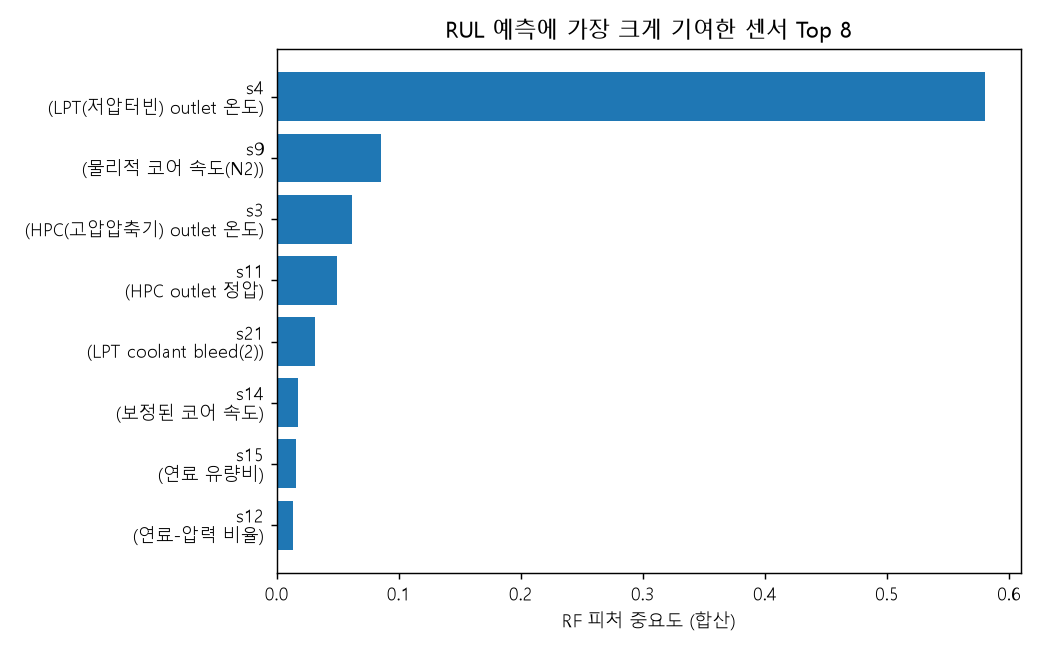
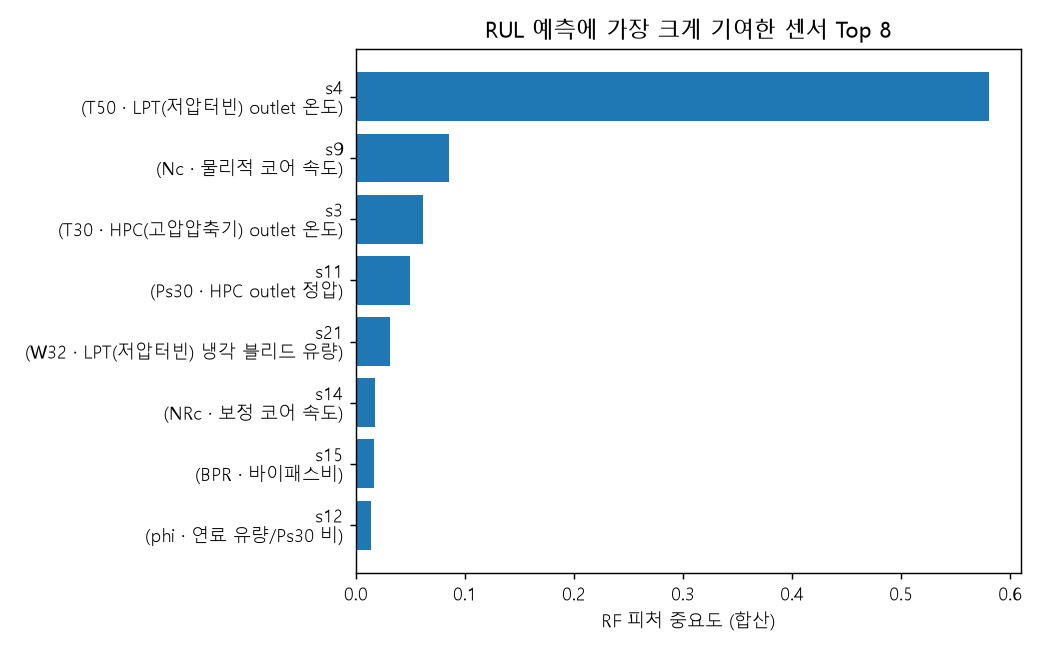
fix: C-MAPSS 센서 이름 대응표 s15~s21이 한 칸씩 밀려 있던 문제 수정
- 06_domain_interpretation.py SENSOR_MEANING을 원자료(Saxena et al. 2008, Table 2) 순서로 수정
  (예: s15 연료 유량비 → BPR·바이패스비, s21 LPT coolant bleed(2) → W32·LPT 냉각 블리드 유량)
- 원자료 기호(T50, Nc, Ps30 등)를 함께 표기
- 센서 중요도 그림·domain_interpretation.json·대시보드 mock.ts 라벨 재생성
- 모델·성능 수치는 센서 번호 기준이라 영향 없음

diff --git a/outputs/dashboard_data/mock.ts b/outputs/dashboard_data/mock.ts
@@ -14,7 +14,7 @@ export const statusLabel: Record<Status, string> = {
 }
 
 export const dataMeta = {
-  "generatedAt": "2026-09-29T11:33:25",
+  "generatedAt": "2026-09-29T11:36:46",
   "dataset": "C-MAPSS FD001",
   "testEngines": 100,
   "selectedEngines": [
@@ -2206,23 +2206,23 @@ export const classifierMetrics = {
 /** RF 피처 중요도 상위 5개 센서(그룹 합산) */
 export const featureImportance = [
   {
-    "label": "LPT outlet 온도 (s4)",
+    "label": "T50 · LPT outlet 온도 (s4)",
     "value": 0.58
   },
   {
-    "label": "물리적 코어 속도(N2) (s9)",
+    "label": "Nc · 물리적 코어 속도 (s9)",
     "value": 0.086
   },
   {
-    "label": "HPC outlet 온도 (s3)",
+    "label": "T30 · HPC outlet 온도 (s3)",
     "value": 0.061
   },
   {
-    "label": "HPC outlet 정압 (s11)",
+    "label": "Ps30 · HPC outlet 정압 (s11)",
     "value": 0.049
   },
   {
-    "label": "LPT coolant bleed(2) (s21)",
+    "label": "W32 · LPT 냉각 블리드 유량 (s21)",
     "value": 0.031
   }
 ]

diff --git a/scripts/06_domain_interpretation.py b/scripts/06_domain_interpretation.py
@@ -20,16 +20,24 @@ import matplotlib.pyplot as plt
 # 폴더 경로는 common.py에서 PC에 상관없이 자동으로 계산됩니다 (0번 섹션 참고).
 from common import DATA, OUT_METRICS, OUT_FIG
 
-# NASA C-MAPSS 데이터 설명서 기준 센서 이름 (물리적 의미) — 공개된 데이터 설명 문서에
-# 나온 표준 명칭입니다. 발표 때 "s4가 뭔데요?"라는 질문에 바로 답할 수 있게 정리.
+# C-MAPSS 센서 21개의 물리적 의미 (원자료 기호 → 우리말). 발표 때 "s4가 뭔데요?"라는
+# 질문에 바로 답할 수 있게 정리했습니다.
+# 출처: Saxena, A. et al., "Damage Propagation Modeling for Aircraft Engine Run-to-Failure
+#       Simulation", PHM 2008, Table 2 (C-MAPSS 출력 변수 목록). 데이터 파일의 센서 열 순서와
+#       이 표의 순서가 같습니다.
+# ※ 2026-09-29 수정: 처음 버전은 s15부터 한 칸씩 밀려 있었습니다(예: s15를 "연료 유량비"로
+#   적었지만 실제로는 바이패스비 BPR). 이 표를 쓰는 06번 그림·해석과 08번 대시보드 라벨이
+#   모두 이 값을 따라갑니다.
 SENSOR_MEANING = {
-    "s1": "Fan inlet 온도", "s2": "LPC(저압압축기) outlet 온도", "s3": "HPC(고압압축기) outlet 온도",
-    "s4": "LPT(저압터빈) outlet 온도", "s5": "Fan inlet 압력", "s6": "bypass-duct 압력",
-    "s7": "HPC outlet 압력", "s8": "물리적 팬 속도(N1)", "s9": "물리적 코어 속도(N2)",
-    "s10": "engine pressure ratio", "s11": "HPC outlet 정압", "s12": "연료-압력 비율",
-    "s13": "보정된 팬 속도", "s14": "보정된 코어 속도", "s15": "연료 유량비",
-    "s16": "bleed enthalpy", "s17": "demanded 팬 속도", "s18": "demanded 보정 팬 속도",
-    "s19": "HPT(고압터빈) coolant bleed", "s20": "LPT coolant bleed", "s21": "LPT coolant bleed(2)",
+    "s1": "T2 · Fan inlet 온도", "s2": "T24 · LPC(저압압축기) outlet 온도",
+    "s3": "T30 · HPC(고압압축기) outlet 온도", "s4": "T50 · LPT(저압터빈) outlet 온도",
+    "s5": "P2 · Fan inlet 압력", "s6": "P15 · bypass-duct 전압력", "s7": "P30 · HPC outlet 전압력",
+    "s8": "Nf · 물리적 팬 속도", "s9": "Nc · 물리적 코어 속도", "s10": "epr · 엔진 압력비(P50/P2)",
+    "s11": "Ps30 · HPC outlet 정압", "s12": "phi · 연료 유량/Ps30 비",
+    "s13": "NRf · 보정 팬 속도", "s14": "NRc · 보정 코어 속도", "s15": "BPR · 바이패스비",
+    "s16": "farB · 연소기 연료-공기비", "s17": "htBleed · 블리드 엔탈피",
+    "s18": "Nf_dmd · 요구 팬 속도", "s19": "PCNfR_dmd · 요구 보정 팬 속도",
+    "s20": "W31 · HPT(고압터빈) 냉각 블리드 유량", "s21": "W32 · LPT(저압터빈) 냉각 블리드 유량",
 }
 
 # ---------------------------------------------------------------------------

diff --git a/docs/DESIGN_DECISIONS.md b/docs/DESIGN_DECISIONS.md
@@ -65,6 +65,14 @@
   s15(0.0375) 이후 그룹 사이에 약 15배의 뚜렷한 공백이 있음. 그 사이값인 0.01을 기준으로
   선택.
 - **결과**: `s1, s5, s6, s10, s16, s18, s19, os1, os2, os3` (10개) 제거, 14개 센서 사용.
+  제거된 센서 7개를 원자료 기호로 보면 T2(팬 입구 온도), P2(팬 입구 압력), P15(바이패스 덕트 압력),
+  epr(엔진 압력비), farB(연소기 연료-공기비), Nf_dmd·PCNfR_dmd(요구 팬 속도 2종) — 운전조건이 하나뿐이면
+  고정되는 입구 조건·설정값들이라 물리적으로도 변하지 않는 게 맞습니다.
+- **센서 이름 대응표 출처**: Saxena et al. 2008, Table 2 (`scripts/06_domain_interpretation.py`의
+  `SENSOR_MEANING`). ※ 2026-09-29 수정 — 처음 버전은 s15부터 한 칸씩 밀려 있었음(예: s15를 "연료
+  유량비"로 적었으나 실제로는 **BPR·바이패스비**, s21은 "LPT coolant bleed(2)"가 아니라
+  **W32·LPT 냉각 블리드 유량**). 센서 번호로 계산한 모델·성능 수치에는 영향이 없고, 그림 라벨과
+  해석 문구만 바뀜.
   이 목록은 C-MAPSS FD001을 다룬 여러 논문(Saxena et al. 2008 PHM Challenge, Heimes 2008)
   에서 "정보 없는 센서"로 분류하는 목록과 정확히 일치함 — 데이터 자체의 물리적 특성에서
   나온 결과이지 자의적 선택이 아님.
